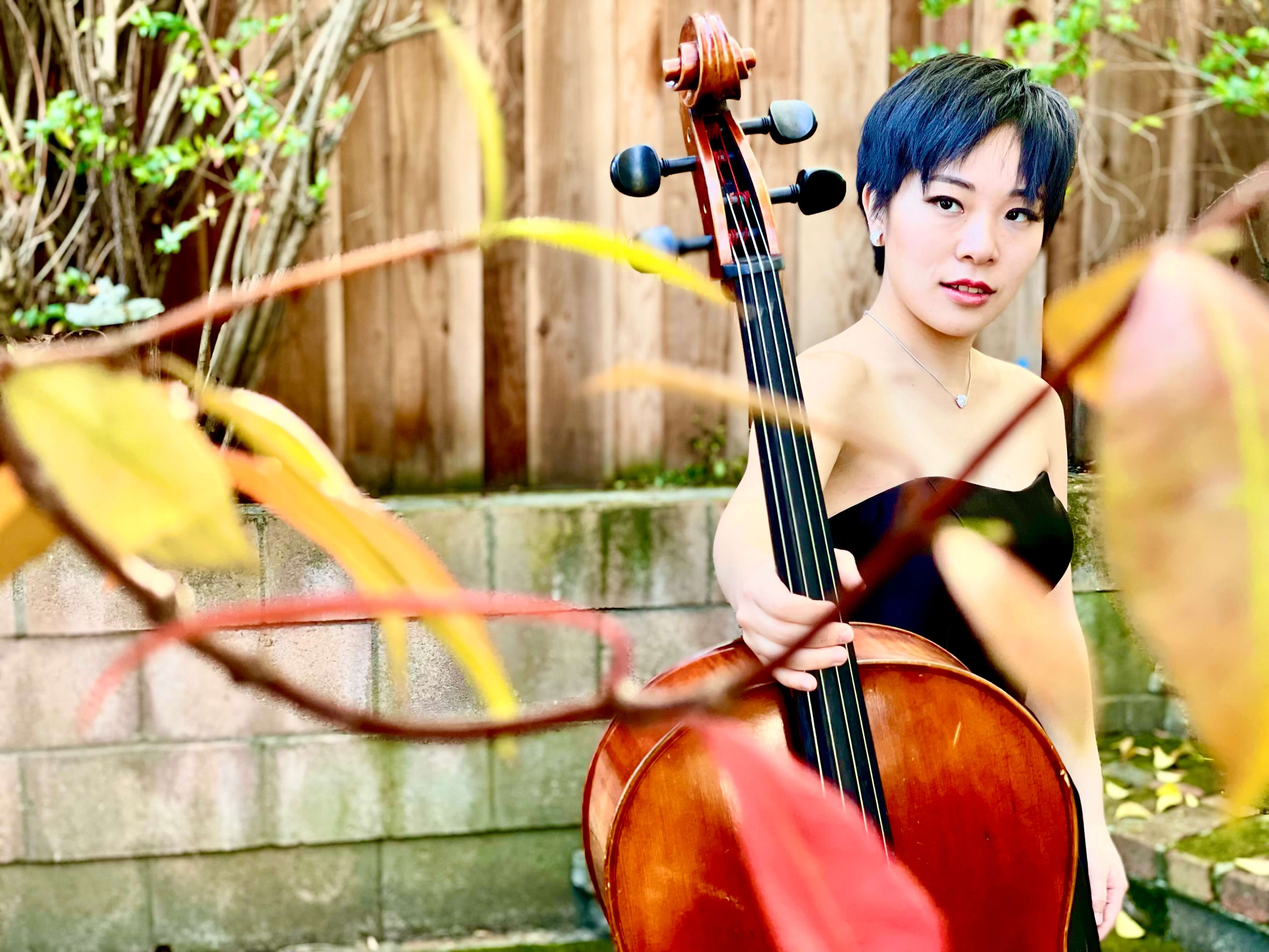
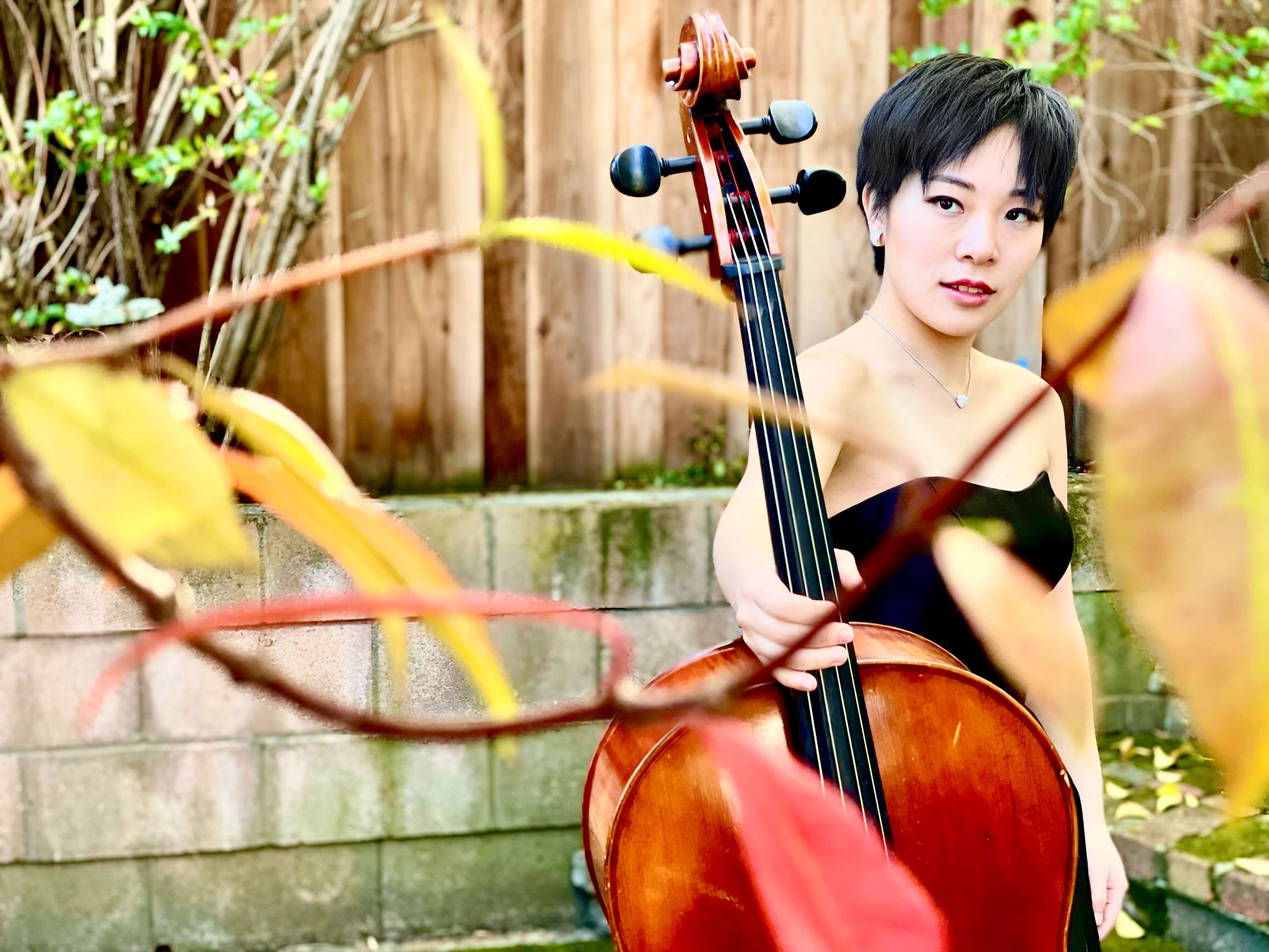
Edited and moved around website images
- edited hair to black
- edited website metadata to always include "Elena Ariza"

Changed region(s): [[0.6562, 0.0622, 0.8438, 0.2176]]

diff --git a/index.html b/index.html
@@ -1,7 +1,7 @@
 ---
 layout: default
 ---
-<div class="parallax header lazy-image" data-large="/img/Elena-Ariza-colorful-leaves-edited.jpg" parallax="0.6">
+<div class="parallax header lazy-image" data-large="/img/Elena-Ariza-colorful-leaves-edited.jpg" parallax="0.8">
 </div>
 <div class="scene header"></div>
 
@@ -12,13 +12,14 @@ layout: default
 		</header> -->
 
 		<div class="post-content">
-		<img class="float-right" width="540px" height="540px" src="/img/elena-ariza-golden-gate-bridge-filter-lighter-smaller-540x540.jpg">
+		<!-- <img class="float-right" width="540px" height="540px" src="/img/elena-ariza-golden-gate-bridge-filter-lighter-smaller-540x540.jpg"> -->
 	<!-- <div class="float-right lazy-image" data-large="img/elena-ariza-golden-gate-bridge-filter-lighter-smaller.jpg"></div> -->
-	    <h3>Hi there, welcome to my website!</h3>
+	    <h1 class="post-title">Welcome!</h1>
 
-	    <p>A bit about myself: I'm a cellist and coder currently pursuing an Artist Diploma at The Juilliard School. Previously, I received my Masters in Music from Juilliard and a Bachelors in Computer Science at Columbia University, as part of <a href="https://www.columbiaspectator.com/eye/2016/09/19/barnard-columbia-juilliard-effect/" target="_blank">their exchange program</a>. I grew up in the San Francisco Bay Area, and was a student at the San Francisco Conservatory of Music Pre-College Division and a member of the San Francisco Symphony Youth Orchestra.</p>
+	    <p>I am a cellist based in New York City, currently pursuing an Artist Diploma at The Juilliard School under the guidance of Astrid Schween and Joel Krosnick. Previously, I received my Masters in Music from Juilliard and a Bachelors in Computer Science at Columbia University, as part of <a href="https://www.columbiaspectator.com/eye/2016/09/19/barnard-columbia-juilliard-effect/" target="_blank">their exchange program</a>. I grew up in the San Francisco Bay Area, and was a student at the San Francisco Conservatory of Music Pre-College Division and a member of the San Francisco Symphony Youth Orchestra.</p>
 
-	    <p>ATTENTION: As of Fall 2021, I am giving this website a much-needed overhaul – many more pages are in the works, but feel free to browse around!</p>
+	    <h4><a href="/about">Read more</a></h4>
+
 	  	</div>
 
 	</article>
@@ -26,7 +27,7 @@ layout: default
 
 <!-- When a rate isn't specified, it will be calculated such that the image always fills the space between the
 element before it and the next element with the "parallax-cover" attribute. -->
-<div class="parallax lazy-image" data-large="/img/leaning-against-wall-edited.jpg" parallax="0.7">
+<div class="parallax lazy-image" data-large="/img/leaning-against-wall-edited.jpg" parallax="0.8">
 	<!-- <img src="img/elena-ariza-golden-gate-bridge-filter-lighter-smaller-lazy.png" class="loaded img-small"> -->
 </div>
 <div class="scene"></div>
@@ -36,7 +37,7 @@ element before it and the next element with the "parallax-cover" attribute. -->
 	<article class="post wrapper">
 	  <div class="post-content">
 		<header class="post-header">
-			<h1 class="post-title">Recents</h1>
+			<h1 class="post-title">Concerts</h1>
 		</header>
 		<div class="concerts-preview">
 			{% include events-tmpl.html num_events_show="3" %}
@@ -49,7 +50,7 @@ element before it and the next element with the "parallax-cover" attribute. -->
 
 <!-- When a rate isn't specified and there is no subsequent element with the "parallax-cover" attribute the rate
 will be calculated such that the image slides until the end of the scrollable content. -->
-<div class="parallax lazy-image purple-long-photo" data-large="/img/Elena-Ariza-front-photo-by-Anastasia-Chernyavsky-long-small.jpg" parallax="0.7">
+<div class="parallax lazy-image purple-long-photo" data-large="/img/elena-ariza-diagonal-cello-black-chair.jpeg" parallax="0.8">
 	<!-- <img src="img/elena-ariza-golden-gate-bridge-filter-lighter-smaller-lazy.png" class="loaded img-small"> -->
 </div>
 <div class="scene"></div>

diff --git a/_includes/head.html b/_includes/head.html
@@ -4,7 +4,7 @@
   <meta http-equiv="X-UA-Compatible" content="IE=edge">
   <meta name="viewport" content="width=device-width, initial-scale=1 minimum-scale=1">
 
-  <title>{% if page.title %}{{ page.title | escape }}{% else %}{{ site.title | escape }}{% endif %}</title>
+  <title>{% if page.title %}{{ page.title | escape }} - {% endif %}{{ site.title | escape }} | Cello</title>
   <meta name="description" content="{% if page.excerpt %}{{ page.excerpt | strip_html | strip_newlines | truncate: 160 }}{% else %}{{ site.description }}{% endif %}">
 
   <link rel="stylesheet" href="{{ "/css/main.css" | prepend: site.baseurl }}">

diff --git a/js/parallax.js b/js/parallax.js
@@ -137,7 +137,7 @@ function onResize(details) {
 		var dx = scrollbarWidth * (scale - 1);
 		// Offset for the position within the container.
 		var dy = details[i].sticky ?
-		// original was v clip.scrollHeight? but it gave issues only for mobile b/c
+		// original was clip.scrollHeight? but it gave issues only for mobile b/c
 		// details[i].sticky was true
 				-(container.scrollHeight - parallaxStart - height) * (1 - scale) :
 				(parallaxStart - depth * (height - clip.clientHeight)) * scale;

diff --git a/_sass/_base.scss b/_sass/_base.scss
@@ -282,7 +282,7 @@ pre {
 
     @extend %clearfix;
 
-    @include media-query($on-laptop) {
+    @include media-query($on-palm) {
         max-width: -webkit-calc(#{$content-width} - (#{$spacing-unit} * 1.5));
         max-width:         calc(#{$content-width} - (#{$spacing-unit} * 1.5));
         padding-right: $spacing-unit * 0.75;

diff --git a/css/main.scss b/css/main.scss
@@ -53,7 +53,7 @@ $site-title-font-size: 45px;
         "base",
         "events",
         "layout",
-        "syntax-highlighting",
+        // "syntax-highlighting",
         "parallax",
         "contact",
         "image-gallery",

diff --git a/events.html b/events.html
@@ -1,7 +1,7 @@
 ---
 layout: page
 title: Events
-image: /img/elena-ariza-golden-gate-bridge-filter-lighter-smaller.jpg
+image: /img/elena-ariza-diagonal-cello-black-chair.jpeg
 permalink: /events/
 order: 2
 ---

diff --git a/_sass/_parallax.scss b/_sass/_parallax.scss
@@ -72,6 +72,14 @@
 	object-position: 30% 50%;
 }
 
+.top-25 img {
+	object-position: 50% 25%;
+}
+
+.top-75 img {
+	object-position: 50% 75%;
+}
+
 .header {
 	// the image
 	&.parallax img {

diff --git a/contact.html b/contact.html
@@ -2,6 +2,7 @@
 layout: page
 title: Contact
 image: /img/Elena-Ariza-black-and-white-by-Anastasia-Chernyavsky.jpg
+image_class: top-75
 permalink: /contact/
 order: 4
 ---

diff --git a/about.md b/about.md
@@ -2,10 +2,12 @@
 layout: page
 title: About
 permalink: /about/
+image: /img/elena-ariza-gazing-bush.jpeg
+image_class: top-25
 order: 1
 ---
 
-<img class="float-left" height="300px" width="246.58px" src="/img/Elena-Ariza-small.jpeg">
+<!-- <img class="float-left" height="300px" width="246.58px" src="/img/Elena-Ariza-small.jpeg"> -->
 
 Elena Ariza is a cellist from Cupertino, California and is currently pursuing an Artist Diploma in cello performance at The Juilliard School. She previously attended Columbia University, majoring in computer science, as part of its exchange program with Juilliard. She has performed as Principal Cellist of the Juilliard Orchestra under the batons of Nicholas McGegan, Speranza Scappucci, David Robertson, and Patricia Rogers. She was a finalist of the Juilliard Concerto Competition in 2019.
 

diff --git a/media.md b/media.md
@@ -2,7 +2,7 @@
 layout: page
 title: Media
 permalink: /media/
-image: null
+image: /img/elena-ariza-leaning-bush.jpg
 order: 3
 ---
 
